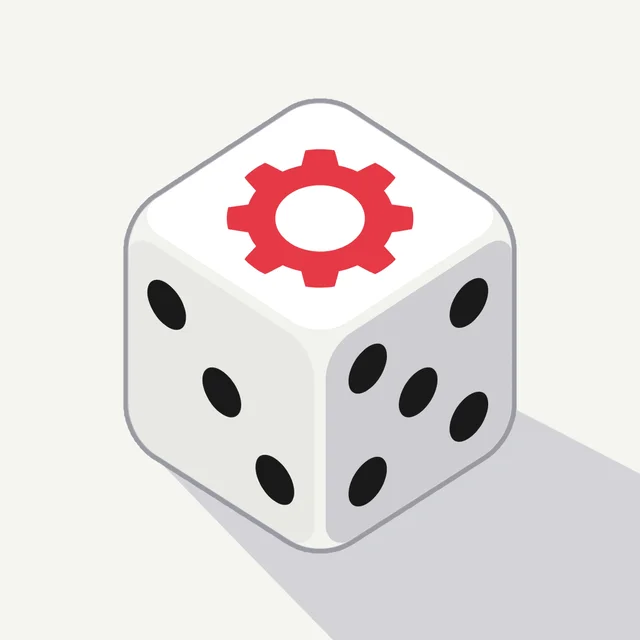
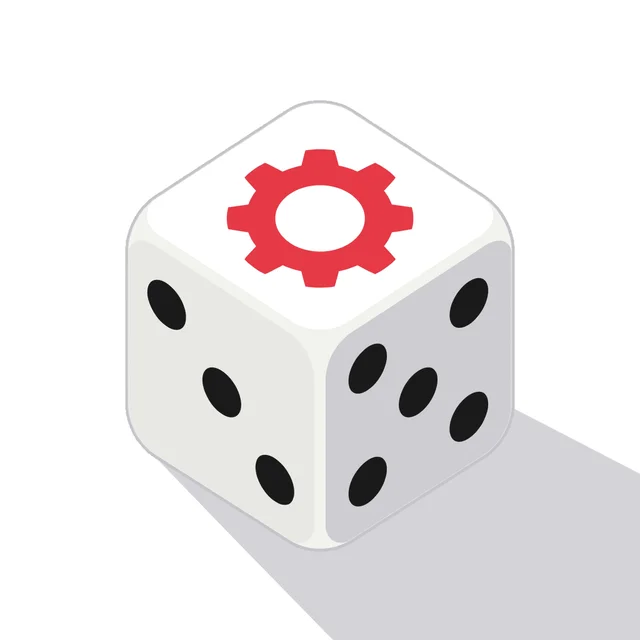
dice-master: 1.2.4 출시 반영(흰 바탕 아이콘, 기본 프리셋 길게 눌러 담기)
- 아이콘 icon-180, icon-360, icon-640, og 를 1.2.4 흰 바탕 AppIcon-1024.png 로 다시 뽑음
- 프리셋 카드 본문에 누르면 적용, 길게 눌러 나만의 프리셋에 담기 한 문장(8개 언어)
- facts.json describesVersion 1.2.4, sources, versionNote. 처리방침은 그대로

diff --git a/docs/ja/dice-master/index.html b/docs/ja/dice-master/index.html
@@ -396,7 +396,7 @@ html{scroll-padding-top:72px}
 <section class="pano"><figure class="print"><img src="/assets/dice-master/store/ja/01.webp" alt="近くの友だちと みんなで振ります"><span class="lab" aria-hidden="true">Pl. 01</span></figure><figure class="print"><img src="/assets/dice-master/store/ja/02.webp" alt="振った瞬間に 合計が出ます" loading="lazy"><span class="lab" aria-hidden="true">Pl. 02</span></figure><figure class="print"><img src="/assets/dice-master/store/ja/03.webp" alt="ダイス10個を合計し カラー別に小計します" loading="lazy"><span class="lab" aria-hidden="true">Pl. 03</span></figure></section>
 <section class="feat"><figure class="feat-vis crop" style="--cy:-80px"><img src="/assets/dice-master/shots/ja/01.webp" alt="合計の数字と、その下の計算の中身の拡大。上には面数、ダイス数、進め方、計算式のチップが並んでいます。" loading="lazy"><figcaption>アプリ画面の拡大</figcaption></figure><div><p class="kick">01</p><h2>振れば計算が終わります</h2><p class="body">サイコロが止まると結果が大きく出て、その下に計算に使った目が順に並びます。計算式は合計、積、最大値、最小値からゲームに合うものを選びます。サイコロにカラーを分けて塗ると、カラー別の小計も一緒に出ます。</p><ul class="pts"><li>合計、積、最大値など計算式6種類</li><li>カラー別の小計の表示</li><li>3D のサイコロと 2D 表示の切り替え</li></ul></div></section>
 <section class="feat feat-rev"><div class="feat-vis kit" role="img" aria-label="進め方の一括と順番に、ロール回数制限2〜20回、合計制限1〜999"><ul class="kit-b kit-b--plain"><li class="on"><b>一括</b><small>まとめて振ってから選んでロック</small></li><li><b>順番に</b><small>振るたびに積み上がる累計</small></li><li><b>合計制限</b><small>上限を超えるとバースト</small></li></ul><div class="kit-r"><p>ロール回数制限<b>2〜20回</b></p></div><div class="kit-r"><p>合計制限<b>1〜999</b></p></div></div><div><p class="kick">02</p><h2>ルールはゲームに合わせます</h2><p class="body">面数とダイス数、進め方をゲームの決まりどおりに設定します。一括では、サイコロをタップしてロックし、残りだけを振り直します。順番にでは、振るたびに累計が積み上がり、合計制限を超えるとバーストで終わります。決めた設定はマイプリセットに保存して呼び出します。</p><ul class="pts"><li>一括と順番にの二つの進め方</li><li>サイコロのロックとロール回数制限</li><li>合計制限とバースト</li></ul></div></section>
-<section class="duo"><div class="card"><p class="kick">03</p><h2>ゲームごとのクイックプリセットが入っています</h2><p class="body">ボードゲーム、パーティー、カジノ、TRPG で使うサイコロの組み合わせが入っています。クラップス、シックボー、ファークルのようなゲームは、振るたびに結果を判定します。みんなで振るでは、同じ Wi-Fi か Bluetooth で近くの端末をつなぎ、最大8人が同じルームで振れます。誰が振っても全員の画面に同じサイコロが表示され、ホストが伏せて振るをオンにすると各自で振り、公開までは他の人のサイコロが見えません。</p><ul class="pts"><li>クイックプリセット17種類</li><li>10のゲームの判定</li><li>ゲーム検索と非表示</li></ul></div><div class="card"><p class="kick">04</p><h2>前の設定のまま続けて振れます</h2><p class="body">アプリを開くと、前回のサイコロの設定がそのまま残っています。アカウントなしで使え、インターネットが切れていても振れます。折りたたみ式の iPhone を開いた広い画面では、iPad と同じように広いレイアウトになります。画面の横にシステムの帯があるときは、ダイス数のボタンがその帯に縦に並びます。</p><ul class="chips"><li>アカウントなし</li><li>オフラインで利用</li></ul></div></section>
+<section class="duo"><div class="card"><p class="kick">03</p><h2>ゲームごとのクイックプリセットが入っています</h2><p class="body">ボードゲーム、パーティー、カジノ、TRPG で使うサイコロの組み合わせが入っています。クイックプリセットはタップするとすぐ適用され、長押しでマイプリセットに追加できます。クラップス、シックボー、ファークルのようなゲームは、振るたびに結果を判定します。みんなで振るでは、同じ Wi-Fi か Bluetooth で近くの端末をつなぎ、最大8人が同じルームで振れます。誰が振っても全員の画面に同じサイコロが表示され、ホストが伏せて振るをオンにすると各自で振り、公開までは他の人のサイコロが見えません。</p><ul class="pts"><li>クイックプリセット17種類</li><li>10のゲームの判定</li><li>ゲーム検索と非表示</li></ul></div><div class="card"><p class="kick">04</p><h2>前の設定のまま続けて振れます</h2><p class="body">アプリを開くと、前回のサイコロの設定がそのまま残っています。アカウントなしで使え、インターネットが切れていても振れます。折りたたみ式の iPhone を開いた広い画面では、iPad と同じように広いレイアウトになります。画面の横にシステムの帯があるときは、ダイス数のボタンがその帯に縦に並びます。</p><ul class="chips"><li>アカウントなし</li><li>オフラインで利用</li></ul></div></section>
 <section class="pro">
 <p class="kick">Dice Master Pro</p><h2>大きなサイコロを、<br>もっと多く振ります</h2>
 <ul class="chk chk-pro"><li>10面を超えるサイコロ（d12、d20、d100）</li><li>一度に最大20個までロール</li><li>ネオン、サンダー、ゴールド、フレイム、ウッド、マーブルのスキン</li><li>サイコロ面のカスタムアイコン</li><li>プリセットを無制限に保存</li><li>ロール履歴と統計の全表示</li></ul>

diff --git a/docs/de/dice-master/index.html b/docs/de/dice-master/index.html
@@ -396,7 +396,7 @@ html{scroll-padding-top:72px}
 <section class="pano"><figure class="print"><img src="/assets/dice-master/store/de/01.webp" alt="Mit Freunden in der Nähe gemeinsam würfeln"><span class="lab" aria-hidden="true">Pl. 01</span></figure><figure class="print"><img src="/assets/dice-master/store/de/02.webp" alt="Würfeln, und schon steht die Summe da" loading="lazy"><span class="lab" aria-hidden="true">Pl. 02</span></figure><figure class="print"><img src="/assets/dice-master/store/de/03.webp" alt="Zehn Würfel addiert, Teilsummen nach Farbe" loading="lazy"><span class="lab" aria-hidden="true">Pl. 03</span></figure></section>
 <section class="feat"><figure class="feat-vis crop" style="--cy:-80px"><img src="/assets/dice-master/shots/de/01.webp" alt="Das Ergebnis aus der Nähe, darunter die einzelnen Augen. Oben laufen die Chips für Seiten, Würfelzahl, Wurfmodus und Formel quer über den Bildschirm." loading="lazy"><figcaption>App-Ansicht, vergrößert</figcaption></figure><div><p class="kick">01</p><h2>Gewürfelt, und das Rechnen ist erledigt</h2><p class="body">Sobald die Würfel liegen, erscheint das Ergebnis groß, und darunter reihen sich die einzelnen Augen. Als Formel nehmen Sie die, die das Spiel verlangt, etwa Summe, Produkt, Höchster oder Niedrigster. Geben Sie den Würfeln verschiedene Farben, bekommt jede Farbe ihre eigene Zwischensumme.</p><ul class="pts"><li>6 Formeln, darunter Summe und Summe × Würfe</li><li>Zwischensummen nach Würfelfarbe</li><li>Wechsel zwischen 3D-Würfeln und 2D-Ansicht</li></ul></div></section>
 <section class="feat feat-rev"><div class="feat-vis kit" role="img" aria-label="Die Wurfmodi Simultan und Einzeln, Wurflimit von 2 bis 20 Würfen, Summenlimit von 1 bis 999"><ul class="kit-b kit-b--plain"><li class="on"><b>Simultan</b><small>Alle werfen, dann die behalten, die Sie sperren</small></li><li><b>Einzeln</b><small>Jeder Wurf wächst zur Gesamtsumme</small></li><li><b>Summenlimit</b><small>Darüber endet die Runde als Pleite</small></li></ul><div class="kit-r"><p>Wurflimit<b>2 bis 20 Würfe</b></p></div><div class="kit-r"><p>Summenlimit<b>1 bis 999</b></p></div></div><div><p class="kick">02</p><h2>Regeln nach dem Spiel</h2><p class="body">Stellen Sie Seiten, Würfelzahl und Wurfmodus so ein, wie es die Spielregeln vorgeben. In Simultan tippen Sie einen Würfel an, um ihn zu sperren, und werfen den Rest neu. In Einzeln wächst mit jedem Wurf die Gesamtsumme, und wer über das Summenlimit kommt, beendet die Runde mit einer Pleite. Die Einstellung sichern Sie unter Meine Vorlagen und holen sie später zurück.</p><ul class="pts"><li>Wurfmodi Simultan und Einzeln</li><li>Würfel sperren und Wurflimit</li><li>Summenlimit mit Pleite</li></ul></div></section>
-<section class="duo"><div class="card"><p class="kick">03</p><h2>Schnellvoreinstellungen für viele Spiele</h2><p class="body">Würfelaufbauten für Brettspiele, Partyspiele, Casinospiele und Pen-and-Paper-Rollenspiele sind schon dabei. Bei Spielen wie Craps, Sic Bo und Farkle steht nach jedem Wurf das Ergebnis der Runde da. Gemeinsam würfeln verbindet Geräte in der Nähe über dasselbe WLAN oder Bluetooth, sodass bis zu 8 Personen in einem Raum würfeln. Egal wer würfelt, auf allen Bildschirmen erscheinen dieselben Würfel, und schaltet der Gastgeber Verdeckt würfeln ein, würfelt jeder für sich, und die Würfel der anderen bleiben bis zum Aufdecken verdeckt.</p><ul class="pts"><li>17 Schnellvoreinstellungen</li><li>Ergebniswertung für 10 Spiele</li><li>Spiele suchen und ausblenden</li></ul></div><div class="card"><p class="kick">04</p><h2>Es geht dort weiter, wo Sie aufgehört haben</h2><p class="body">Die App öffnet mit dem Würfelaufbau vom letzten Mal. Kein Konto, und gewürfelt wird auch ohne Netz. Auf dem breiten Bildschirm eines aufgeklappten faltbaren iPhone wird das Layout breit wie auf dem iPad. Hat der Bildschirm seitlich einen Systemstreifen, stehen die Schaltflächen für die Würfelanzahl senkrecht in diesem Streifen.</p><ul class="chips"><li>Kein Konto</li><li>Offline nutzbar</li></ul></div></section>
+<section class="duo"><div class="card"><p class="kick">03</p><h2>Schnellvoreinstellungen für viele Spiele</h2><p class="body">Würfelaufbauten für Brettspiele, Partyspiele, Casinospiele und Pen-and-Paper-Rollenspiele sind schon dabei. Eine Schnellvoreinstellung gilt nach dem Antippen sofort, und mit langem Drücken fügen Sie sie zu Meine Vorlagen hinzu. Bei Spielen wie Craps, Sic Bo und Farkle steht nach jedem Wurf das Ergebnis der Runde da. Gemeinsam würfeln verbindet Geräte in der Nähe über dasselbe WLAN oder Bluetooth, sodass bis zu 8 Personen in einem Raum würfeln. Egal wer würfelt, auf allen Bildschirmen erscheinen dieselben Würfel, und schaltet der Gastgeber Verdeckt würfeln ein, würfelt jeder für sich, und die Würfel der anderen bleiben bis zum Aufdecken verdeckt.</p><ul class="pts"><li>17 Schnellvoreinstellungen</li><li>Ergebniswertung für 10 Spiele</li><li>Spiele suchen und ausblenden</li></ul></div><div class="card"><p class="kick">04</p><h2>Es geht dort weiter, wo Sie aufgehört haben</h2><p class="body">Die App öffnet mit dem Würfelaufbau vom letzten Mal. Kein Konto, und gewürfelt wird auch ohne Netz. Auf dem breiten Bildschirm eines aufgeklappten faltbaren iPhone wird das Layout breit wie auf dem iPad. Hat der Bildschirm seitlich einen Systemstreifen, stehen die Schaltflächen für die Würfelanzahl senkrecht in diesem Streifen.</p><ul class="chips"><li>Kein Konto</li><li>Offline nutzbar</li></ul></div></section>
 <section class="pro">
 <p class="kick">Dice Master Pro</p><h2>Größere Würfel,<br>und mehr davon</h2>
 <ul class="chk chk-pro"><li>Würfel mit mehr als 10 Seiten (d12, d20, d100)</li><li>Bis zu 20 Würfel gleichzeitig werfen</li><li>Skins Neon, Donner, Gold, Flamme, Holz und Marmor</li><li>Eigene Symbole für Würfelseiten</li><li>Unbegrenzt Vorlagen speichern</li><li>Vollständiger Würfelverlauf und Statistik</li></ul>

diff --git a/docs/ko/dice-master/index.html b/docs/ko/dice-master/index.html
@@ -396,7 +396,7 @@ html{scroll-padding-top:72px}
 <section class="pano"><figure class="print"><img src="/assets/dice-master/store/ko/01.webp" alt="근처 친구와 방을 열고 함께 굴립니다"><span class="lab" aria-hidden="true">Pl. 01</span></figure><figure class="print"><img src="/assets/dice-master/store/ko/02.webp" alt="굴리는 순간 합계가 나옵니다" loading="lazy"><span class="lab" aria-hidden="true">Pl. 02</span></figure><figure class="print"><img src="/assets/dice-master/store/ko/03.webp" alt="주사위 열 개를 더하고 색상별로 나눠 셉니다" loading="lazy"><span class="lab" aria-hidden="true">Pl. 03</span></figure></section>
 <section class="feat"><figure class="feat-vis crop" style="--cy:-80px"><img src="/assets/dice-master/shots/ko/01.webp" alt="합계 숫자와 그 아래 계산 과정을 확대한 모습. 위에는 면체, 주사위 수, 진행 방식, 계산식 칩이 있습니다." loading="lazy"><figcaption>앱 화면 확대</figcaption></figure><div><p class="kick">01</p><h2>굴리면 자동으로 계산됩니다</h2><p class="body">주사위가 멈추면 결과가 크게 뜨고 그 아래에 계산에 쓰인 눈이 차례로 놓입니다. 계산식은 합과 곱, 최댓값, 최솟값 가운데 게임에 맞는 것을 고릅니다. 주사위에 색을 나눠 칠하면 색상별 부분합도 함께 나옵니다.</p><ul class="pts"><li>합, 곱, 최댓값 등 6가지 계산식</li><li>색상별 부분합 표시</li><li>3D 주사위와 2D 보기 전환</li></ul></div></section>
 <section class="feat feat-rev"><div class="feat-vis kit" role="img" aria-label="진행 방식 한번에와 하나씩, 굴림 횟수 제한 2~20회, 합계 제한 1~999"><ul class="kit-b kit-b--plain"><li class="on"><b>한번에</b><small>모두 굴린 뒤 골라 잠그는 방식</small></li><li><b>하나씩</b><small>굴릴 때마다 쌓이는 누적 합</small></li><li><b>합계 제한</b><small>한도를 넘으면 버스트</small></li></ul><div class="kit-r"><p>굴림 횟수 제한<b>2~20회</b></p></div><div class="kit-r"><p>합계 제한<b>1~999</b></p></div></div><div><p class="kick">02</p><h2>규칙은 게임에 맞춥니다</h2><p class="body">면체와 주사위 수, 진행 방식을 게임 규칙대로 정합니다. 한번에 모드에서는 주사위를 탭해 잠그고 나머지만 다시 굴립니다. 하나씩 모드에서는 굴릴 때마다 누적 합이 쌓이고 합계 제한을 넘으면 버스트로 끝납니다. 맞춘 설정은 나만의 프리셋으로 저장해 두고 불러올 수 있습니다.</p><ul class="pts"><li>한번에, 하나씩 두 가지 진행 방식</li><li>주사위 잠금과 굴림 횟수 제한</li><li>합계 제한과 버스트 처리</li></ul></div></section>
-<section class="duo"><div class="card"><p class="kick">03</p><h2>게임별 프리셋이 들어 있습니다</h2><p class="body">보드게임, 파티, 카지노, TRPG에서 쓰는 주사위 구성이 들어 있습니다. 크랩스, 식보, 파클 같은 게임은 굴릴 때마다 결과를 판정합니다. 함께 굴리기는 같은 와이파이나 블루투스로 근처 기기를 이어 최대 8명이 한 방에서 굴립니다. 누가 굴려도 모두의 화면에 같은 주사위가 뜨고, 방장이 숨겨 굴리기를 켜면 각자 굴리고 공개 전까지 남의 주사위는 가려집니다.</p><ul class="pts"><li>17가지 기본 프리셋</li><li>10가지 게임 결과 판정</li><li>게임 검색과 숨기기</li></ul></div><div class="card"><p class="kick">04</p><h2>지난 설정 그대로 이어 굴립니다</h2><p class="body">앱을 열면 지난번 주사위 설정이 그대로 있습니다. 회원가입 없이 사용할 수 있고 인터넷 연결 없이도 작동합니다. 접는 iPhone을 펼친 넓은 화면에서는 iPad처럼 넓은 배치로 보입니다. 화면 옆에 시스템 띠가 있으면 주사위 수 단추가 그 띠에 세로로 놓입니다.</p><ul class="chips"><li>계정 없음</li><li>오프라인 사용</li></ul></div></section>
+<section class="duo"><div class="card"><p class="kick">03</p><h2>게임별 프리셋이 들어 있습니다</h2><p class="body">보드게임, 파티, 카지노, TRPG에서 쓰는 주사위 구성이 들어 있습니다. 기본 프리셋은 누르면 바로 적용되고, 길게 눌러 나만의 프리셋에 담을 수 있습니다. 크랩스, 식보, 파클 같은 게임은 굴릴 때마다 결과를 판정합니다. 함께 굴리기는 같은 와이파이나 블루투스로 근처 기기를 이어 최대 8명이 한 방에서 굴립니다. 누가 굴려도 모두의 화면에 같은 주사위가 뜨고, 방장이 숨겨 굴리기를 켜면 각자 굴리고 공개 전까지 남의 주사위는 가려집니다.</p><ul class="pts"><li>17가지 기본 프리셋</li><li>10가지 게임 결과 판정</li><li>게임 검색과 숨기기</li></ul></div><div class="card"><p class="kick">04</p><h2>지난 설정 그대로 이어 굴립니다</h2><p class="body">앱을 열면 지난번 주사위 설정이 그대로 있습니다. 회원가입 없이 사용할 수 있고 인터넷 연결 없이도 작동합니다. 접는 iPhone을 펼친 넓은 화면에서는 iPad처럼 넓은 배치로 보입니다. 화면 옆에 시스템 띠가 있으면 주사위 수 단추가 그 띠에 세로로 놓입니다.</p><ul class="chips"><li>계정 없음</li><li>오프라인 사용</li></ul></div></section>
 <section class="pro">
 <p class="kick">Dice Master Pro</p><h2>더 큰 주사위를,<br>더 많이 굴립니다</h2>
 <ul class="chk chk-pro"><li>11면 이상 주사위 (d12, d20, d100)</li><li>한 번에 최대 20개 굴리기</li><li>네온, 썬더, 골드, 플레임, 나무, 대리석 스킨</li><li>주사위 면 커스텀 아이콘</li><li>프리셋 무제한 저장</li><li>전체 굴리기 기록과 통계</li></ul>

diff --git a/docs/es/dice-master/index.html b/docs/es/dice-master/index.html
@@ -396,7 +396,7 @@ html{scroll-padding-top:72px}
 <section class="pano"><figure class="print"><img src="/assets/dice-master/store/es/01.webp" alt="Tira con tus amigos que están cerca"><span class="lab" aria-hidden="true">Pl. 01</span></figure><figure class="print"><img src="/assets/dice-master/store/es/02.webp" alt="Tira y la suma aparece al instante" loading="lazy"><span class="lab" aria-hidden="true">Pl. 02</span></figure><figure class="print"><img src="/assets/dice-master/store/es/03.webp" alt="Diez dados sumados, subtotales por color" loading="lazy"><span class="lab" aria-hidden="true">Pl. 03</span></figure></section>
 <section class="feat"><figure class="feat-vis crop" style="--cy:-80px"><img src="/assets/dice-master/shots/es/01.webp" alt="Primer plano del total con los valores debajo. Arriba cruzan la pantalla los chips de caras, número de dados, modo de lanzamiento y fórmula." loading="lazy"><figcaption>Pantalla de la app, ampliada</figcaption></figure><div><p class="kick">01</p><h2>Lanzas y la cuenta ya está hecha</h2><p class="body">Cuando los dados se paran, el resultado sale en grande y debajo se alinean los valores uno a uno. Como fórmula eliges la que pide el juego, por ejemplo Suma, Producto, Mayor o Menor. Si repartes colores entre los dados, cada color recibe su propio subtotal.</p><ul class="pts"><li>6 fórmulas, entre ellas Suma y Suma × Lanzamientos</li><li>Subtotales por color de dado</li><li>Cambio entre dados en 3D y vista 2D</li></ul></div></section>
 <section class="feat feat-rev"><div class="feat-vis kit" role="img" aria-label="Modos Simultáneo y Uno a uno, Límite de lanzamientos de 2 a 20 y Límite de suma de 1 a 999"><ul class="kit-b kit-b--plain"><li class="on"><b>Simultáneo</b><small>Lanzas todos y bloqueas los que te quedas</small></li><li><b>Uno a uno</b><small>Cada lanzamiento suma al total acumulado</small></li><li><b>Límite de suma</b><small>Si lo pasas, la ronda acaba en Pierde</small></li></ul><div class="kit-r"><p>Límite de lanzamientos<b>De 2 a 20 lanzamientos</b></p></div><div class="kit-r"><p>Límite de suma<b>De 1 a 999</b></p></div></div><div><p class="kick">02</p><h2>Las reglas que pide el juego</h2><p class="body">Ajusta las caras, el número de dados y el modo de lanzamiento a las reglas del juego. En Simultáneo tocas un dado para bloquearlo y vuelves a lanzar el resto. En Uno a uno cada lanzamiento suma al total acumulado, y pasarse del Límite de suma cierra la ronda en Pierde. Guarda la configuración en Mis preajustes y recupérala más tarde.</p><ul class="pts"><li>Modos Simultáneo y Uno a uno</li><li>Bloqueo de dados y límite de lanzamientos</li><li>Límite de suma con Pierde</li></ul></div></section>
-<section class="duo"><div class="card"><p class="kick">03</p><h2>Ajustes rápidos para muchos juegos</h2><p class="body">Vienen de serie configuraciones de dados para juegos de mesa, juegos de fiesta, juegos de casino y juegos de rol. En juegos como Craps, Sic Bo y Farkle, cada lanzamiento recibe su resultado. Tirar juntos conecta dispositivos cercanos por la misma Wi-Fi o Bluetooth para que hasta 8 personas tiren en una misma sala. Tire quien tire, todos ven los mismos dados en pantalla, y si el anfitrión activa Tiradas ocultas, cada uno tira por su cuenta y los dados de los demás quedan ocultos hasta revelarlos.</p><ul class="pts"><li>17 ajustes rápidos</li><li>Resultado de la tirada en 10 juegos</li><li>Buscar y ocultar juegos</li></ul></div><div class="card"><p class="kick">04</p><h2>Sigue donde lo dejaste</h2><p class="body">La app abre con la configuración de dados de la última vez. Sin cuenta, y se lanza aunque no haya conexión. En la pantalla ancha de un iPhone plegable abierto, la disposición se amplía como en el iPad. Si la pantalla tiene una franja del sistema a un lado, los botones del número de dados se colocan en vertical en esa franja.</p><ul class="chips"><li>Sin cuenta</li><li>Funciona sin conexión</li></ul></div></section>
+<section class="duo"><div class="card"><p class="kick">03</p><h2>Ajustes rápidos para muchos juegos</h2><p class="body">Vienen de serie configuraciones de dados para juegos de mesa, juegos de fiesta, juegos de casino y juegos de rol. Toca un ajuste rápido para aplicarlo al instante o mantenlo pulsado para añadirlo a Mis preajustes. En juegos como Craps, Sic Bo y Farkle, cada lanzamiento recibe su resultado. Tirar juntos conecta dispositivos cercanos por la misma Wi-Fi o Bluetooth para que hasta 8 personas tiren en una misma sala. Tire quien tire, todos ven los mismos dados en pantalla, y si el anfitrión activa Tiradas ocultas, cada uno tira por su cuenta y los dados de los demás quedan ocultos hasta revelarlos.</p><ul class="pts"><li>17 ajustes rápidos</li><li>Resultado de la tirada en 10 juegos</li><li>Buscar y ocultar juegos</li></ul></div><div class="card"><p class="kick">04</p><h2>Sigue donde lo dejaste</h2><p class="body">La app abre con la configuración de dados de la última vez. Sin cuenta, y se lanza aunque no haya conexión. En la pantalla ancha de un iPhone plegable abierto, la disposición se amplía como en el iPad. Si la pantalla tiene una franja del sistema a un lado, los botones del número de dados se colocan en vertical en esa franja.</p><ul class="chips"><li>Sin cuenta</li><li>Funciona sin conexión</li></ul></div></section>
 <section class="pro">
 <p class="kick">Dice Master Pro</p><h2>Dados más grandes<br>y más dados</h2>
 <ul class="chk chk-pro"><li>Dados de más de 10 caras (d12, d20, d100)</li><li>Lanza hasta 20 dados a la vez</li><li>Apariencias Neón, Trueno, Oro, Llama, Madera y Mármol</li><li>Iconos personalizados para las caras de los dados</li><li>Preajustes guardados sin límite</li><li>Historial y estadísticas completos</li></ul>

diff --git a/docs/pt-br/dice-master/index.html b/docs/pt-br/dice-master/index.html
@@ -396,7 +396,7 @@ html{scroll-padding-top:72px}
 <section class="pano"><figure class="print"><img src="/assets/dice-master/store/pt-br/01.webp" alt="Role com os amigos que estão por perto"><span class="lab" aria-hidden="true">Pl. 01</span></figure><figure class="print"><img src="/assets/dice-master/store/pt-br/02.webp" alt="Role e a soma aparece na hora" loading="lazy"><span class="lab" aria-hidden="true">Pl. 02</span></figure><figure class="print"><img src="/assets/dice-master/store/pt-br/03.webp" alt="Dez dados somados, subtotais por cor" loading="lazy"><span class="lab" aria-hidden="true">Pl. 03</span></figure></section>
 <section class="feat"><figure class="feat-vis crop" style="--cy:-80px"><img src="/assets/dice-master/shots/pt-br/01.webp" alt="O total visto de perto, com os valores embaixo. No alto, atravessam a tela os chips de faces, quantidade de dados, modo de rolagem e fórmula." loading="lazy"><figcaption>Tela do app, ampliada</figcaption></figure><div><p class="kick">01</p><h2>Você rola e a conta já está feita</h2><p class="body">Quando os dados param, o resultado aparece grande e, logo abaixo, os valores ficam enfileirados. Como fórmula, escolha a que o jogo pede, por exemplo Soma, Produto, Maior ou Menor. Se distribuir cores entre os dados, cada cor ganha o próprio subtotal.</p><ul class="pts"><li>6 fórmulas, entre elas Soma e Soma × Rolagens</li><li>Subtotais por cor de dado</li><li>Troca entre dados em 3D e vista 2D</li></ul></div></section>
 <section class="feat feat-rev"><div class="feat-vis kit" role="img" aria-label="Modos Simultâneo e Um por um, Limite de rolagens de 2 a 20 e Limite de soma de 1 a 999"><ul class="kit-b kit-b--plain"><li class="on"><b>Simultâneo</b><small>Rola todos e depois trava os que ficam</small></li><li><b>Um por um</b><small>Cada rolagem entra no total acumulado</small></li><li><b>Limite de soma</b><small>Passou dele, a rodada acaba em Perde</small></li></ul><div class="kit-r"><p>Limite de rolagens<b>De 2 a 20 rolagens</b></p></div><div class="kit-r"><p>Limite de soma<b>De 1 a 999</b></p></div></div><div><p class="kick">02</p><h2>Regras no talhe do jogo</h2><p class="body">Acerte faces, quantidade de dados e modo de rolagem conforme as regras do jogo. Em Simultâneo, você toca num dado para travá-lo e rola o resto de novo. Em Um por um, cada rolagem entra no total acumulado, e passar do Limite de soma fecha a rodada em Perde. Guarde a configuração em Minhas predefinições e traga de volta depois.</p><ul class="pts"><li>Modos Simultâneo e Um por um</li><li>Travar dados e limite de rolagens</li><li>Limite de soma com Perde</li></ul></div></section>
-<section class="duo"><div class="card"><p class="kick">03</p><h2>Predefinições rápidas para muitos jogos</h2><p class="body">Já vêm prontas configurações de dados para jogos de tabuleiro, jogos de festa, jogos de cassino e RPGs de mesa. Em jogos como Craps, Sic Bo e Farkle, cada rolagem recebe o resultado dela. Rolar juntos conecta aparelhos por perto pelo mesmo Wi-Fi ou Bluetooth para que até 8 pessoas rolem na mesma sala. Não importa quem role, todos veem os mesmos dados na tela, e quando o anfitrião ativa Rolagens ocultas, cada um rola por conta própria e os dados dos outros ficam ocultos até a revelação.</p><ul class="pts"><li>17 predefinições rápidas</li><li>Resultado da rolagem em 10 jogos</li><li>Buscar e ocultar jogos</li></ul></div><div class="card"><p class="kick">04</p><h2>Continua de onde você parou</h2><p class="body">O app abre com a configuração de dados da última vez. Sem conta, e a rolagem funciona sem internet. Na tela larga de um iPhone dobrável aberto, o layout se amplia como no iPad. Quando a tela tem uma faixa do sistema na lateral, os botões do número de dados ficam empilhados na vertical nessa faixa.</p><ul class="chips"><li>Sem conta</li><li>Funciona off-line</li></ul></div></section>
+<section class="duo"><div class="card"><p class="kick">03</p><h2>Predefinições rápidas para muitos jogos</h2><p class="body">Já vêm prontas configurações de dados para jogos de tabuleiro, jogos de festa, jogos de cassino e RPGs de mesa. Toque em uma predefinição rápida para aplicá-la na hora ou mantenha pressionado para adicioná-la a Minhas predefinições. Em jogos como Craps, Sic Bo e Farkle, cada rolagem recebe o resultado dela. Rolar juntos conecta aparelhos por perto pelo mesmo Wi-Fi ou Bluetooth para que até 8 pessoas rolem na mesma sala. Não importa quem role, todos veem os mesmos dados na tela, e quando o anfitrião ativa Rolagens ocultas, cada um rola por conta própria e os dados dos outros ficam ocultos até a revelação.</p><ul class="pts"><li>17 predefinições rápidas</li><li>Resultado da rolagem em 10 jogos</li><li>Buscar e ocultar jogos</li></ul></div><div class="card"><p class="kick">04</p><h2>Continua de onde você parou</h2><p class="body">O app abre com a configuração de dados da última vez. Sem conta, e a rolagem funciona sem internet. Na tela larga de um iPhone dobrável aberto, o layout se amplia como no iPad. Quando a tela tem uma faixa do sistema na lateral, os botões do número de dados ficam empilhados na vertical nessa faixa.</p><ul class="chips"><li>Sem conta</li><li>Funciona off-line</li></ul></div></section>
 <section class="pro">
 <p class="kick">Dice Master Pro</p><h2>Dados maiores,<br>e mais deles</h2>
 <ul class="chk chk-pro"><li>Dados com mais de 10 faces (d12, d20, d100)</li><li>Role até 20 dados de uma vez</li><li>Aparências Neon, Trovão, Ouro, Chama, Madeira e Mármore</li><li>Ícones personalizados para as faces dos dados</li><li>Predefinições salvas sem limite</li><li>Histórico e estatísticas completos</li></ul>

diff --git a/docs/en/dice-master/index.html b/docs/en/dice-master/index.html
@@ -396,7 +396,7 @@ html{scroll-padding-top:72px}
 <section class="pano"><figure class="print"><img src="/assets/dice-master/store/en/01.webp" alt="Roll together with friends nearby"><span class="lab" aria-hidden="true">Pl. 01</span></figure><figure class="print"><img src="/assets/dice-master/store/en/02.webp" alt="Roll, and the total is already there" loading="lazy"><span class="lab" aria-hidden="true">Pl. 02</span></figure><figure class="print"><img src="/assets/dice-master/store/en/03.webp" alt="Ten dice added up, subtotals by color" loading="lazy"><span class="lab" aria-hidden="true">Pl. 03</span></figure></section>
 <section class="feat"><figure class="feat-vis crop" style="--cy:-80px"><img src="/assets/dice-master/shots/en/01.webp" alt="Close-up of the total with the values beneath it. Chips for faces, dice count, roll mode and formula run across the top." loading="lazy"><figcaption>App screen, zoomed in</figcaption></figure><div><p class="kick">01</p><h2>Roll, and the math is done</h2><p class="body">When the dice stop, the result appears in large type with each value lined up beneath it. Choose the formula the game calls for, such as Sum, Product, Highest or Lowest. Give the dice different colors and each color gets its own subtotal.</p><ul class="pts"><li>6 formulas, including Sum, Product and Highest</li><li>Subtotals by dice color</li><li>Switch between 3D dice and a 2D view</li></ul></div></section>
 <section class="feat feat-rev"><div class="feat-vis kit" role="img" aria-label="Roll modes All at Once and One by One, Roll Limit from 2 to 20 rolls, Sum Limit from 1 to 999"><ul class="kit-b kit-b--plain"><li class="on"><b>All at Once</b><small>Roll them all, then lock the ones you keep</small></li><li><b>One by One</b><small>Each roll adds to a running total</small></li><li><b>Sum Limit</b><small>Go over it and the round is a bust</small></li></ul><div class="kit-r"><p>Roll Limit<b>2 to 20 rolls</b></p></div><div class="kit-r"><p>Sum Limit<b>1 to 999</b></p></div></div><div><p class="kick">02</p><h2>Rules that fit the game</h2><p class="body">Set the faces, dice count and roll mode to match the rules on the box. In All at Once, tap a die to lock it and reroll the rest. In One by One, every roll adds to a running total, and going over the Sum Limit ends the round in a bust. Save the setup to My Presets and bring it back later.</p><ul class="pts"><li>All at Once and One by One roll modes</li><li>Dice locking and a roll limit</li><li>Sum Limit with bust</li></ul></div></section>
-<section class="duo"><div class="card"><p class="kick">03</p><h2>Quick Presets for many games</h2><p class="body">Dice setups for board games, party games, casino games and tabletop RPGs come built in. Games such as Craps, Sic Bo and Farkle get a verdict after every roll. Roll together connects nearby devices over the same Wi-Fi or Bluetooth so up to 8 people can roll in one room. Whoever rolls, everyone sees the same dice on screen, and when the host turns on Hidden rolls, each person rolls on their own and the others&#x27; dice stay hidden until the reveal.</p><ul class="pts"><li>17 Quick Presets</li><li>Roll verdicts for 10 games</li><li>Game search and hiding</li></ul></div><div class="card"><p class="kick">04</p><h2>Picks up where you left off</h2><p class="body">The app opens with last time&#x27;s dice setup. No account, and rolling works offline. On the wide screen of a foldable iPhone opened out, the layout spreads out as on iPad. When the screen has a system strip along one side, the dice count buttons stand in that strip.</p><ul class="chips"><li>No account</li><li>Works offline</li></ul></div></section>
+<section class="duo"><div class="card"><p class="kick">03</p><h2>Quick Presets for many games</h2><p class="body">Dice setups for board games, party games, casino games and tabletop RPGs come built in. Tap a Quick Preset to apply it right away, or press and hold to add it to My Presets. Games such as Craps, Sic Bo and Farkle get a verdict after every roll. Roll together connects nearby devices over the same Wi-Fi or Bluetooth so up to 8 people can roll in one room. Whoever rolls, everyone sees the same dice on screen, and when the host turns on Hidden rolls, each person rolls on their own and the others&#x27; dice stay hidden until the reveal.</p><ul class="pts"><li>17 Quick Presets</li><li>Roll verdicts for 10 games</li><li>Game search and hiding</li></ul></div><div class="card"><p class="kick">04</p><h2>Picks up where you left off</h2><p class="body">The app opens with last time&#x27;s dice setup. No account, and rolling works offline. On the wide screen of a foldable iPhone opened out, the layout spreads out as on iPad. When the screen has a system strip along one side, the dice count buttons stand in that strip.</p><ul class="chips"><li>No account</li><li>Works offline</li></ul></div></section>
 <section class="pro">
 <p class="kick">Dice Master Pro</p><h2>Bigger dice,<br>and more of them</h2>
 <ul class="chk chk-pro"><li>Dice beyond 10 faces (d12, d20, d100)</li><li>Roll up to 20 dice at once</li><li>Neon, Thunder, Gold, Flame, Wood and Marble skins</li><li>Custom dice face icons</li><li>Unlimited saved presets</li><li>Full roll history and statistics</li></ul>

diff --git a/docs/zh-hans/dice-master/index.html b/docs/zh-hans/dice-master/index.html
@@ -396,7 +396,7 @@ html{scroll-padding-top:72px}
 <section class="pano"><figure class="print"><img src="/assets/dice-master/store/zh-hans/01.webp" alt="和身边的朋友 一起掷骰"><span class="lab" aria-hidden="true">Pl. 01</span></figure><figure class="print"><img src="/assets/dice-master/store/zh-hans/02.webp" alt="掷出的瞬间 总和已经算好" loading="lazy"><span class="lab" aria-hidden="true">Pl. 02</span></figure><figure class="print"><img src="/assets/dice-master/store/zh-hans/03.webp" alt="10个骰子一起求和 按颜色分别小计" loading="lazy"><span class="lab" aria-hidden="true">Pl. 03</span></figure></section>
 <section class="feat"><figure class="feat-vis crop" style="--cy:-80px"><img src="/assets/dice-master/shots/zh-hans/01.webp" alt="总和数字和下方算式的放大图，上方为面数、骰子数、进行方式和计算公式的标签。" loading="lazy"><figcaption>App 画面放大</figcaption></figure><div><p class="kick">01</p><h2>掷完，计算也随之完成</h2><p class="body">骰子停下后，结果以大字显示，下方依次排列参与计算的点数。计算公式可依游戏选择求和、求积、最大值或最小值。为骰子分别上色后，还会一并给出按颜色划分的小计。</p><ul class="pts"><li>求和、求积、最大值等 6 种计算公式</li><li>按骰子颜色分的小计</li><li>3D 骰子和 2D 视图切换</li></ul></div></section>
 <section class="feat feat-rev"><div class="feat-vis kit" role="img" aria-label="进行方式全部同时和逐个投掷，投掷次数限制 2 到 20 次，总和限制 1 到 999"><ul class="kit-b kit-b--plain"><li class="on"><b>全部同时</b><small>全部投完后选择要锁定的骰子</small></li><li><b>逐个投掷</b><small>每投一次便随之增加的累计和</small></li><li><b>总和限制</b><small>超过上限即为爆牌</small></li></ul><div class="kit-r"><p>投掷次数限制<b>2 到 20 次</b></p></div><div class="kit-r"><p>总和限制<b>1 到 999</b></p></div></div><div><p class="kick">02</p><h2>规则依游戏而定</h2><p class="body">面数、骰子数和进行方式均按游戏规则设定。在全部同时中，轻点骰子即可将其锁定，其余骰子重新投掷。在逐个投掷中，每投一次累计和便随之增加，超过总和限制则本轮以爆牌结束。设定好的配置可存入我的预设，日后随时调用。</p><ul class="pts"><li>全部同时和逐个投掷两种进行方式</li><li>骰子锁定和投掷次数限制</li><li>总和限制与爆牌</li></ul></div></section>
-<section class="duo"><div class="card"><p class="kick">03</p><h2>各种游戏的快速预设</h2><p class="body">桌游、派对、赌场和桌上角色扮演所用的骰子配置均已内置。花旗骰、骰宝、Farkle 等游戏每投一次即给出一次判定。一起掷骰通过同一 Wi-Fi 或蓝牙连接附近的设备，最多 8 人可在同一房间掷骰。无论谁掷骰，所有人的屏幕上都会显示相同的骰子。房主打开暗掷后，大家各自掷骰，公开前看不到别人的骰子。</p><ul class="pts"><li>17 种快速预设</li><li>10 种游戏的结果判定</li><li>游戏搜索和隐藏</li></ul></div><div class="card"><p class="kick">04</p><h2>沿用上次的配置继续投掷</h2><p class="body">打开 App，上次的骰子配置依然保留。不需要账户，没有网络也能投掷。在折叠 iPhone 展开后的宽屏上，布局会像在 iPad 上一样展开。屏幕旁边有系统边条时，骰子数按钮会沿边条竖向排列。</p><ul class="chips"><li>没有账户</li><li>离线可用</li></ul></div></section>
+<section class="duo"><div class="card"><p class="kick">03</p><h2>各种游戏的快速预设</h2><p class="body">桌游、派对、赌场和桌上角色扮演所用的骰子配置均已内置。点击快速预设即可立即应用，长按可添加到我的预设。花旗骰、骰宝、Farkle 等游戏每投一次即给出一次判定。一起掷骰通过同一 Wi-Fi 或蓝牙连接附近的设备，最多 8 人可在同一房间掷骰。无论谁掷骰，所有人的屏幕上都会显示相同的骰子。房主打开暗掷后，大家各自掷骰，公开前看不到别人的骰子。</p><ul class="pts"><li>17 种快速预设</li><li>10 种游戏的结果判定</li><li>游戏搜索和隐藏</li></ul></div><div class="card"><p class="kick">04</p><h2>沿用上次的配置继续投掷</h2><p class="body">打开 App，上次的骰子配置依然保留。不需要账户，没有网络也能投掷。在折叠 iPhone 展开后的宽屏上，布局会像在 iPad 上一样展开。屏幕旁边有系统边条时，骰子数按钮会沿边条竖向排列。</p><ul class="chips"><li>没有账户</li><li>离线可用</li></ul></div></section>
 <section class="pro">
 <p class="kick">Dice Master Pro</p><h2>更大的骰子，<br>也更多</h2>
 <ul class="chk chk-pro"><li>超过 10 面的骰子（d12、d20、d100）</li><li>一次最多投掷 20 个骰子</li><li>霓虹、雷霆、黄金、火焰、原木、大理石皮肤</li><li>骰子面自定义图标</li><li>预设保存不限数量</li><li>完整的投掷记录与统计</li></ul>

diff --git a/docs/zh-hant/dice-master/index.html b/docs/zh-hant/dice-master/index.html
@@ -396,7 +396,7 @@ html{scroll-padding-top:72px}
 <section class="pano"><figure class="print"><img src="/assets/dice-master/store/zh-hant/01.webp" alt="和身邊的朋友 一起擲骰"><span class="lab" aria-hidden="true">Pl. 01</span></figure><figure class="print"><img src="/assets/dice-master/store/zh-hant/02.webp" alt="擲出的瞬間 加總已經算好" loading="lazy"><span class="lab" aria-hidden="true">Pl. 02</span></figure><figure class="print"><img src="/assets/dice-master/store/zh-hant/03.webp" alt="10顆骰子一起加總 依顏色分別小計" loading="lazy"><span class="lab" aria-hidden="true">Pl. 03</span></figure></section>
 <section class="feat"><figure class="feat-vis crop" style="--cy:-80px"><img src="/assets/dice-master/shots/zh-hant/01.webp" alt="合計數字和下方算式的放大圖，上方為面數、骰子數量、進行方式和計算式的標籤。" loading="lazy"><figcaption>App 畫面放大</figcaption></figure><div><p class="kick">01</p><h2>擲完，計算也隨之完成</h2><p class="body">骰子停下後，結果以大字顯示，下方依序排列參與計算的點數。計算式可依遊戲選擇加總、乘積、最大值或最小值。為骰子分別上色後，還會一併給出依顏色劃分的小計。</p><ul class="pts"><li>加總、乘積、最大值等 6 種計算式</li><li>依骰子顏色分的小計</li><li>3D 骰子和 2D 檢視切換</li></ul></div></section>
 <section class="feat feat-rev"><div class="feat-vis kit" role="img" aria-label="進行方式一次全部和逐一擲骰，擲骰限制 2 到 20 次，合計限制 1 到 999"><ul class="kit-b kit-b--plain"><li class="on"><b>一次全部</b><small>全部擲完後選擇要鎖定的骰子</small></li><li><b>逐一擲骰</b><small>每擲一次便隨之增加的累計加總</small></li><li><b>合計限制</b><small>超過上限即為爆牌</small></li></ul><div class="kit-r"><p>擲骰限制<b>2 到 20 次</b></p></div><div class="kit-r"><p>合計限制<b>1 到 999</b></p></div></div><div><p class="kick">02</p><h2>規則依遊戲而定</h2><p class="body">面數、骰子數量和進行方式均按遊戲規則設定。在一次全部中，輕點骰子即可將其鎖定，其餘骰子重新擲出。在逐一擲骰中，每擲一次累計加總便隨之增加，超過合計限制則本輪以爆牌結束。設定好的配置可存入我的預設，日後隨時調用。</p><ul class="pts"><li>一次全部和逐一擲骰兩種進行方式</li><li>骰子鎖定和擲骰限制</li><li>合計限制與爆牌</li></ul></div></section>
-<section class="duo"><div class="card"><p class="kick">03</p><h2>各種遊戲的快速預設</h2><p class="body">桌遊、派對、賭場和桌上角色扮演所用的骰子設定均已內建。花旗骰、骰寶、Farkle 等遊戲每擲一次即給出一次判定。一起擲骰透過同一個 Wi-Fi 或藍牙連接附近的裝置，最多 8 人可在同一房間擲骰。無論誰擲骰，所有人的螢幕上都會顯示相同的骰子。房主開啟暗擲後，大家各自擲骰，公開前看不到別人的骰子。</p><ul class="pts"><li>17 種快速預設</li><li>10 種遊戲的結果判定</li><li>遊戲搜尋和隱藏</li></ul></div><div class="card"><p class="kick">04</p><h2>沿用上次的設定繼續擲骰</h2><p class="body">打開 App，上次的骰子設定依然保留。不需要帳號，沒有網路也能擲骰。在摺疊 iPhone 展開後的寬螢幕上，版面會像在 iPad 上一樣展開。螢幕旁邊有系統邊條時，骰子數按鈕會沿著邊條直向排列。</p><ul class="chips"><li>沒有帳號</li><li>離線可用</li></ul></div></section>
+<section class="duo"><div class="card"><p class="kick">03</p><h2>各種遊戲的快速預設</h2><p class="body">桌遊、派對、賭場和桌上角色扮演所用的骰子設定均已內建。點擊快速預設即可立即套用，長按可加入我的預設。花旗骰、骰寶、Farkle 等遊戲每擲一次即給出一次判定。一起擲骰透過同一個 Wi-Fi 或藍牙連接附近的裝置，最多 8 人可在同一房間擲骰。無論誰擲骰，所有人的螢幕上都會顯示相同的骰子。房主開啟暗擲後，大家各自擲骰，公開前看不到別人的骰子。</p><ul class="pts"><li>17 種快速預設</li><li>10 種遊戲的結果判定</li><li>遊戲搜尋和隱藏</li></ul></div><div class="card"><p class="kick">04</p><h2>沿用上次的設定繼續擲骰</h2><p class="body">打開 App，上次的骰子設定依然保留。不需要帳號，沒有網路也能擲骰。在摺疊 iPhone 展開後的寬螢幕上，版面會像在 iPad 上一樣展開。螢幕旁邊有系統邊條時，骰子數按鈕會沿著邊條直向排列。</p><ul class="chips"><li>沒有帳號</li><li>離線可用</li></ul></div></section>
 <section class="pro">
 <p class="kick">Dice Master Pro</p><h2>更大的骰子，<br>也更多</h2>
 <ul class="chk chk-pro"><li>超過 10 面的骰子（d12、d20、d100）</li><li>一次最多擲 20 顆骰子</li><li>霓虹、雷電、黃金、火焰、原木、大理石外觀</li><li>骰子面自訂圖示</li><li>預設儲存不限數量</li><li>完整的擲骰記錄與統計</li></ul>
